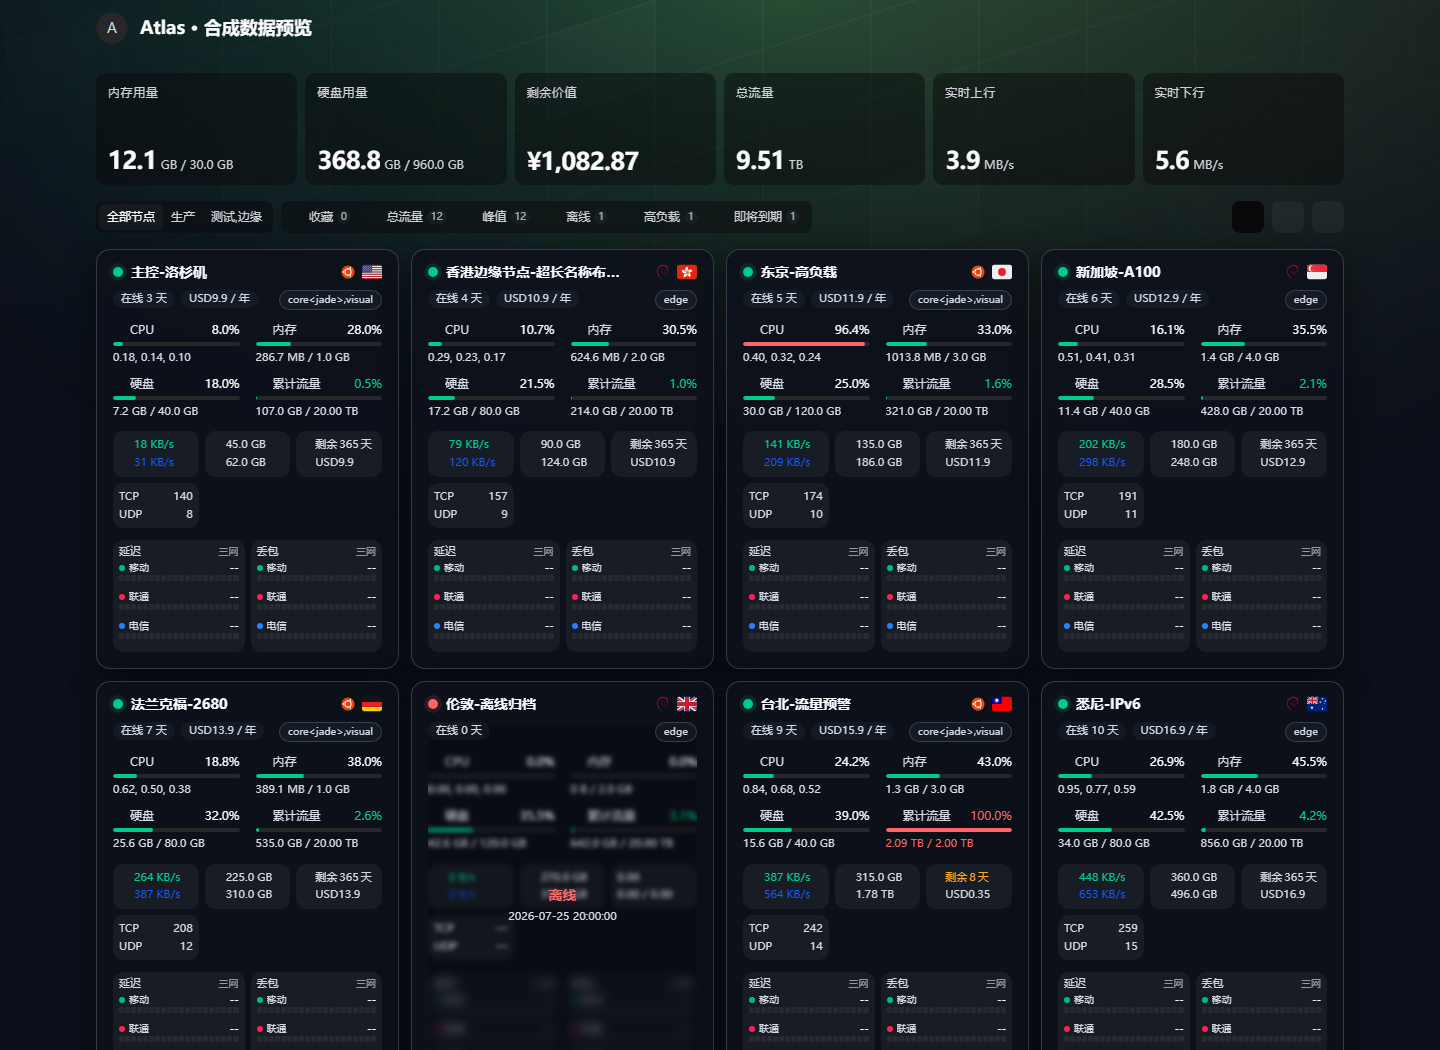
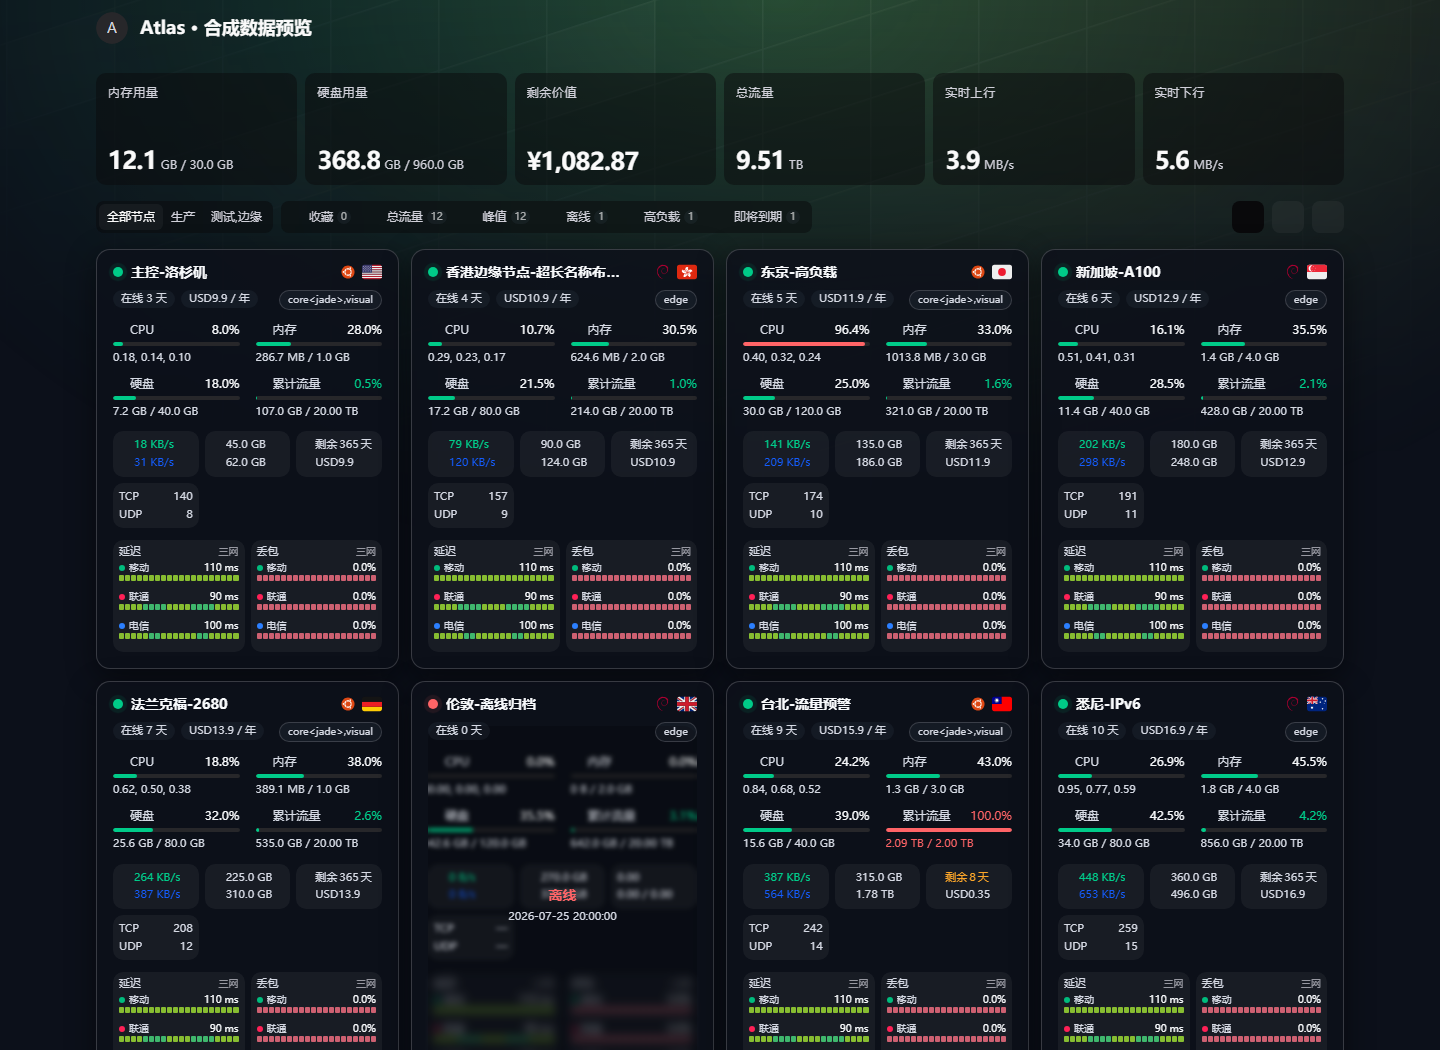
docs: finalize loaded homepage previews and regression evidence

diff --git a/tests/visual/home-connections.spec.ts b/tests/visual/home-connections.spec.ts
@@ -7,7 +7,7 @@ for (const width of [390, 1440]) {
   for (const dark of [false, true]) {
     test(`home TCP/UDP tile preserves original three columns at ${width}px ${dark ? 'dark' : 'light'}`, async ({ page }) => {
       await page.setViewportSize({ width, height: 1050 })
-      await installKomariFixture(page, { siteName: 'Atlas · 合成数据预览', hideEarth: true, dark, themeSettings: { showTcpConnections: true, showUdpConnections: true, carrierOrder: 'mobile,unicom,telecom' } })
+      await installKomariFixture(page, { siteName: 'Atlas · 合成数据预览', hideEarth: true, dark, pingTaskOrdering: true, themeSettings: { showTcpConnections: true, showUdpConnections: true, carrierOrder: 'mobile,unicom,telecom' } })
       await page.goto('/')
       const card = page.getByRole('button', { name: firstNode, exact: true })
       const tile = card.locator('[data-node-connections]')
@@ -26,6 +26,8 @@ for (const width of [390, 1440]) {
       expect(Math.abs(boxes[3]!.width - boxes[0]!.width)).toBeLessThan(1)
       expect(Math.abs(boxes[3]!.height - boxes[0]!.height)).toBeLessThan(1)
       expect(await page.locator('html').evaluate(el => el.scrollWidth)).toBe(width)
+      await expect(card.locator('[data-node-metric-icon=cpu]')).toBeVisible()
+      await expect(card.locator('[data-node-ping-bars=latency]')).toContainText('ms')
       mkdirSync('docs/previews/home-connections', { recursive: true })
       await page.screenshot({ path: `docs/previews/home-connections/${width}-${dark ? 'dark' : 'light'}.png` })
     })

diff --git a/docs/verification/home-connections.md b/docs/verification/home-connections.md
@@ -10,8 +10,9 @@ Local Windows verification:
 - 81 focused unit/contract cases passed. The original 0.0.2 presentation contract still checks every existing element after removing only the marked new tile; a separate contract pins the complete extended presentation. No original contract hashes, screenshot references or tolerances were changed.
 - Twelve new browser cases passed their assertions: desktop/mobile and light/dark, exact tile geometry and unchanged first row, all four TCP/UDP combinations and refresh, mini/compact/comfortable/large sizes, live updates, true zero, missing/invalid values, offline transition and large counts.
 - Existing baseline screenshots compare inherited UI with only the newly authorized tile hidden during screenshot capture. The new tile remains visible and is measured in the dedicated browser cases and previews.
+- All 55 related browser cases passed in a normal-network run, including the inherited homepage/detail screenshots and existing step 4/5 controls. The initial sandbox run passed 54 and failed the existing no-Ping console check solely on `ERR_NETWORK_ACCESS_DENIED` while loading public resources; no assertion/threshold was weakened. The preview follow-up waits for the existing CPU icon and synthetic carrier history; all 12 dedicated cases passed again.
 - The full local unit command cannot collect the inherited helper fixtures because this Windows PATH has no `python3`. Do not claim that command passed; complete Linux CI is required for the review head.
 
 Synthetic previews: [desktop dark](../previews/home-connections/1440-dark.png), [desktop light](../previews/home-connections/1440-light.png), [mobile dark](../previews/home-connections/390-dark.png), [mobile light](../previews/home-connections/390-light.png). These are fixture data, not live production/network/billing measurements.
 
-Scope is a development PR. Atlas v0.0.2 and its published tags/assets remain unchanged. No new Release, version selection or production replacement is included. No production write was performed for this feature.
+Review: [PR #14](https://github.com/MagnetOscar/Atlas/pull/14). Complete Linux Code Quality and Visual Regression must pass on the final review head before merge. Scope is a development PR. Atlas v0.0.2 and its published tags/assets remain unchanged. No new Release, version selection or production replacement is included. No production write was performed for this feature.

diff --git a/AICACHE.md b/AICACHE.md
@@ -4,7 +4,7 @@ Public development records only. Do not add deployment addresses, identifiers, c
 
 ## Current: homepage TCP/UDP mini tile (2026-11-17)
 
-- Implemented on feat/home-connection-counts: one TCP/UDP tile below the existing three metric tiles at the same individual width/style. Reuses existing visibility switches/live counters, unavailable values display a dash, both off removes the tile/row. Only NodeCard.vue runtime changed; no reset/finance/collection changes. Local lint/type/production build and 81 unit/contract cases pass; 12 dedicated browser cases passed assertions across desktop/mobile, light/dark, all sizes, switches, live/zero/missing/offline/large values. Full local unit collection is blocked by missing python3 on Windows PATH; wait for complete GitHub Linux CI. Synthetic previews: docs/previews/home-connections. Evidence/boundaries: docs/verification/home-connections.md. Preserve old 0.0.2 presentation hashes and screenshot references, checking inherited screenshots with only the new authorized tile hidden. This is development only: do not overwrite Atlas v0.0.2, select/publish a new version or deploy production without a subsequent instruction.
+- Implemented in PR #14 (feat/home-connection-counts): one TCP/UDP tile below the existing three metric tiles at the same individual width/style. Reuses existing visibility switches/live counters, unavailable values display a dash, both off removes the tile/row. Only NodeCard.vue runtime changed; no reset/finance/collection changes. Local lint/type/production build and 81 unit/contract cases pass; all 55 related browser cases pass with normal network permissions, and the 12 dedicated cases pass again after waiting for loaded preview data. Full local unit collection is blocked by missing python3 on Windows PATH; complete GitHub Linux CI is required on final head (initial 0bc1c69 Code Quality passed). Synthetic previews: docs/previews/home-connections. Evidence/boundaries: docs/verification/home-connections.md. Preserve old 0.0.2 presentation hashes and screenshot references, checking inherited screenshots with only the new authorized tile hidden. This is development only: do not overwrite Atlas v0.0.2, select/publish a new version or deploy production without a subsequent instruction.
 
 ## Current: Atlas v0.0.1 / Atlas v0.0.2 Release titles (2026-11-17)
 
